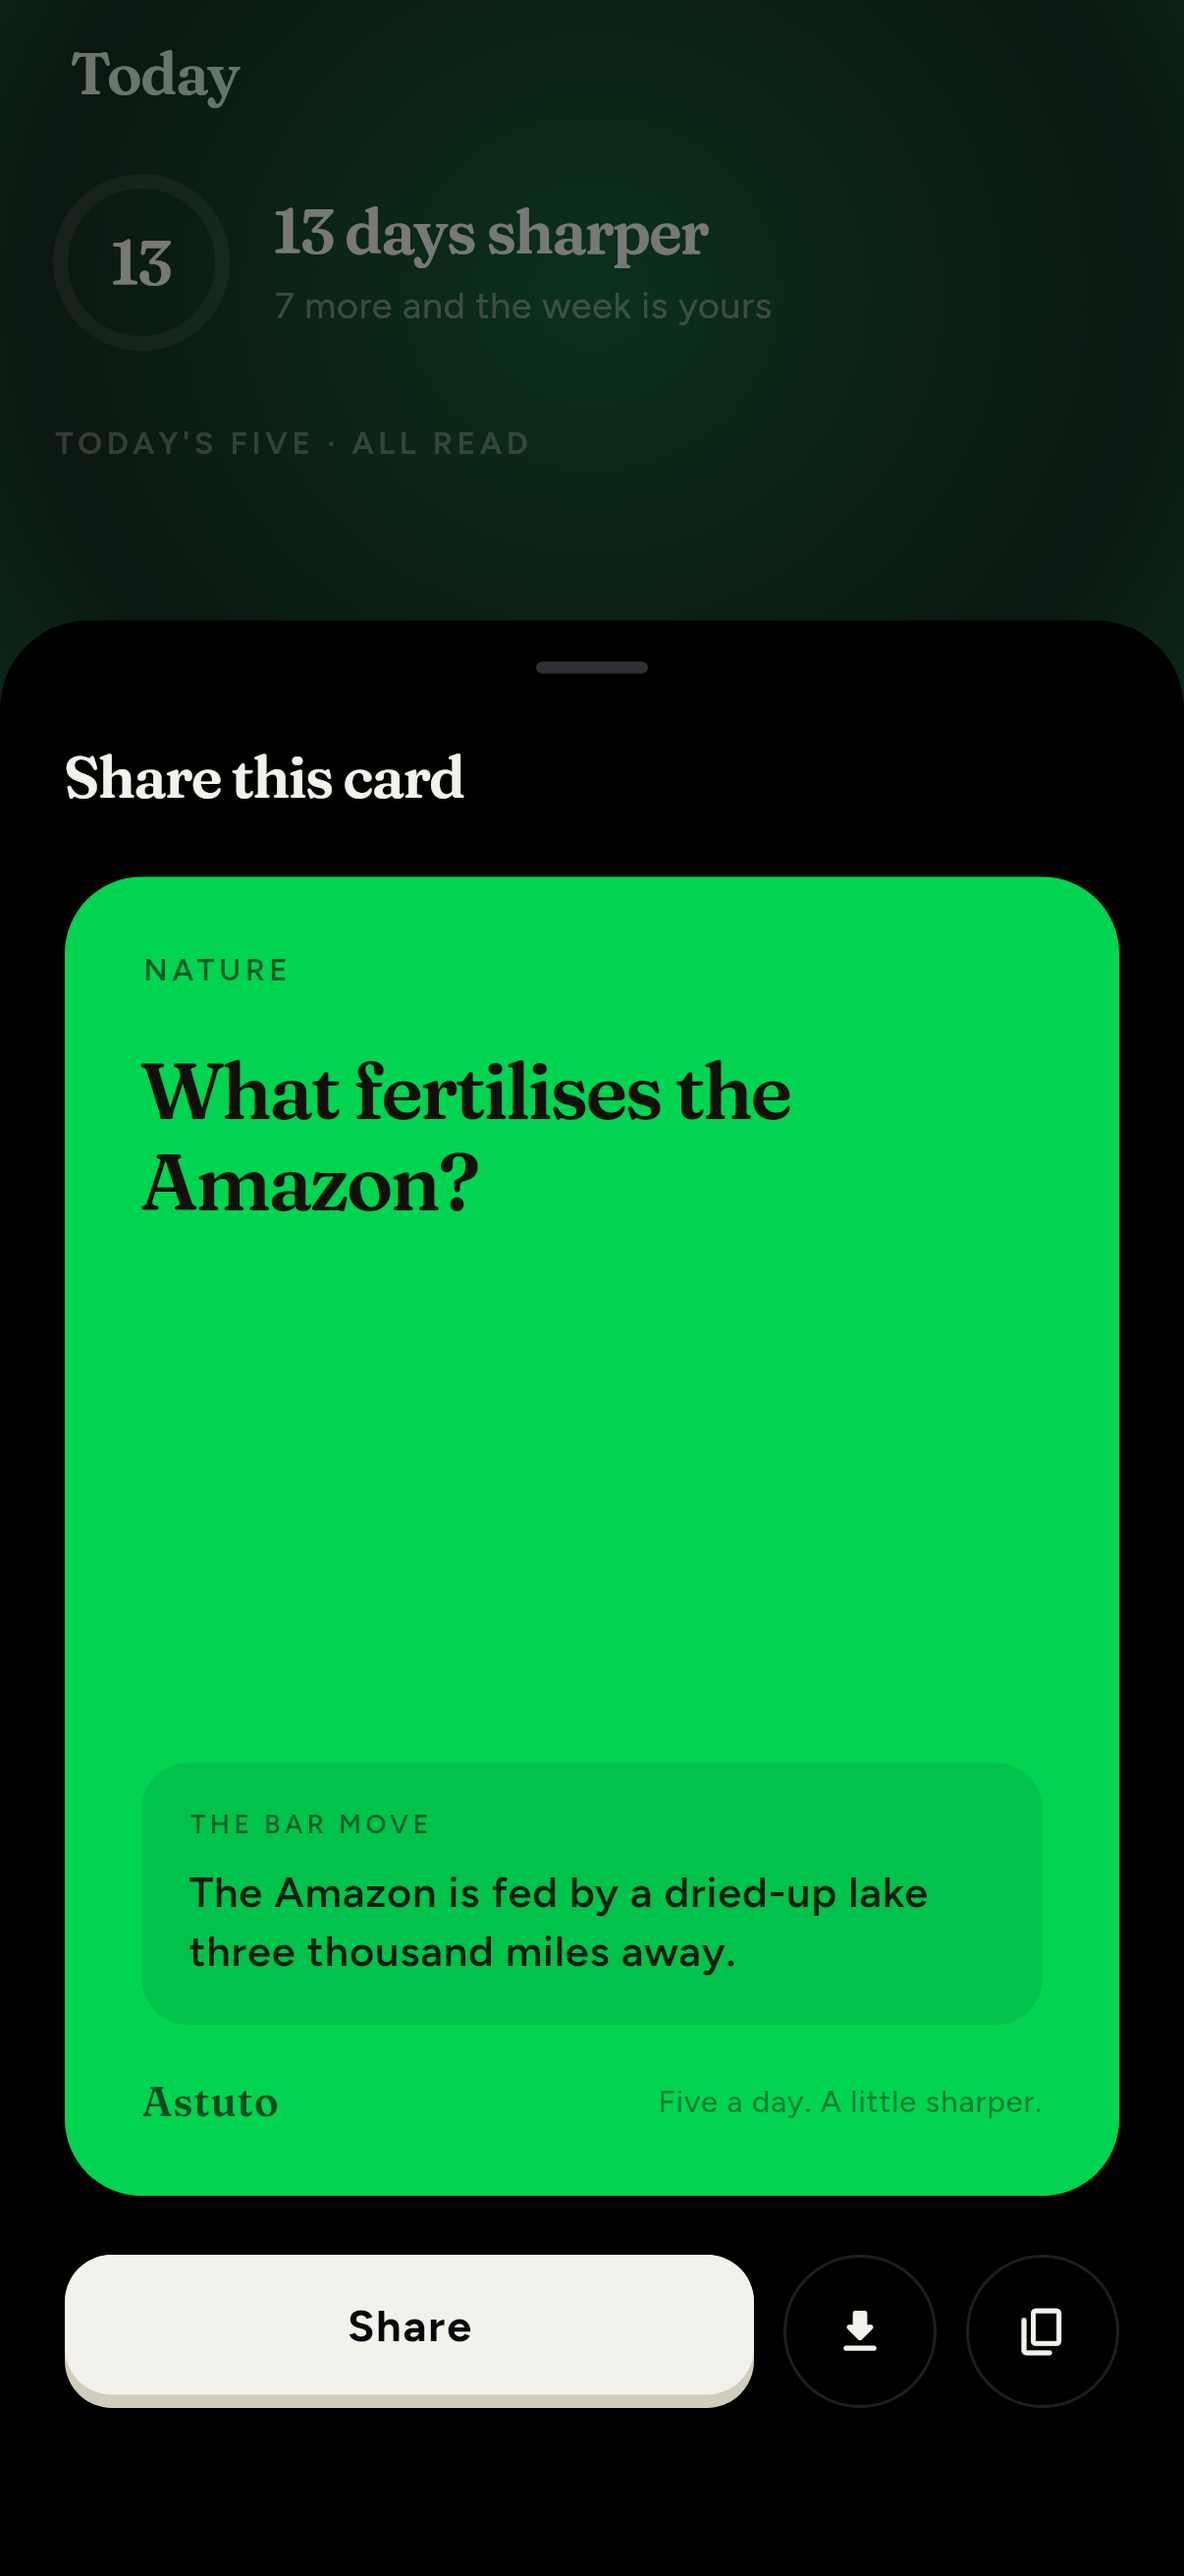
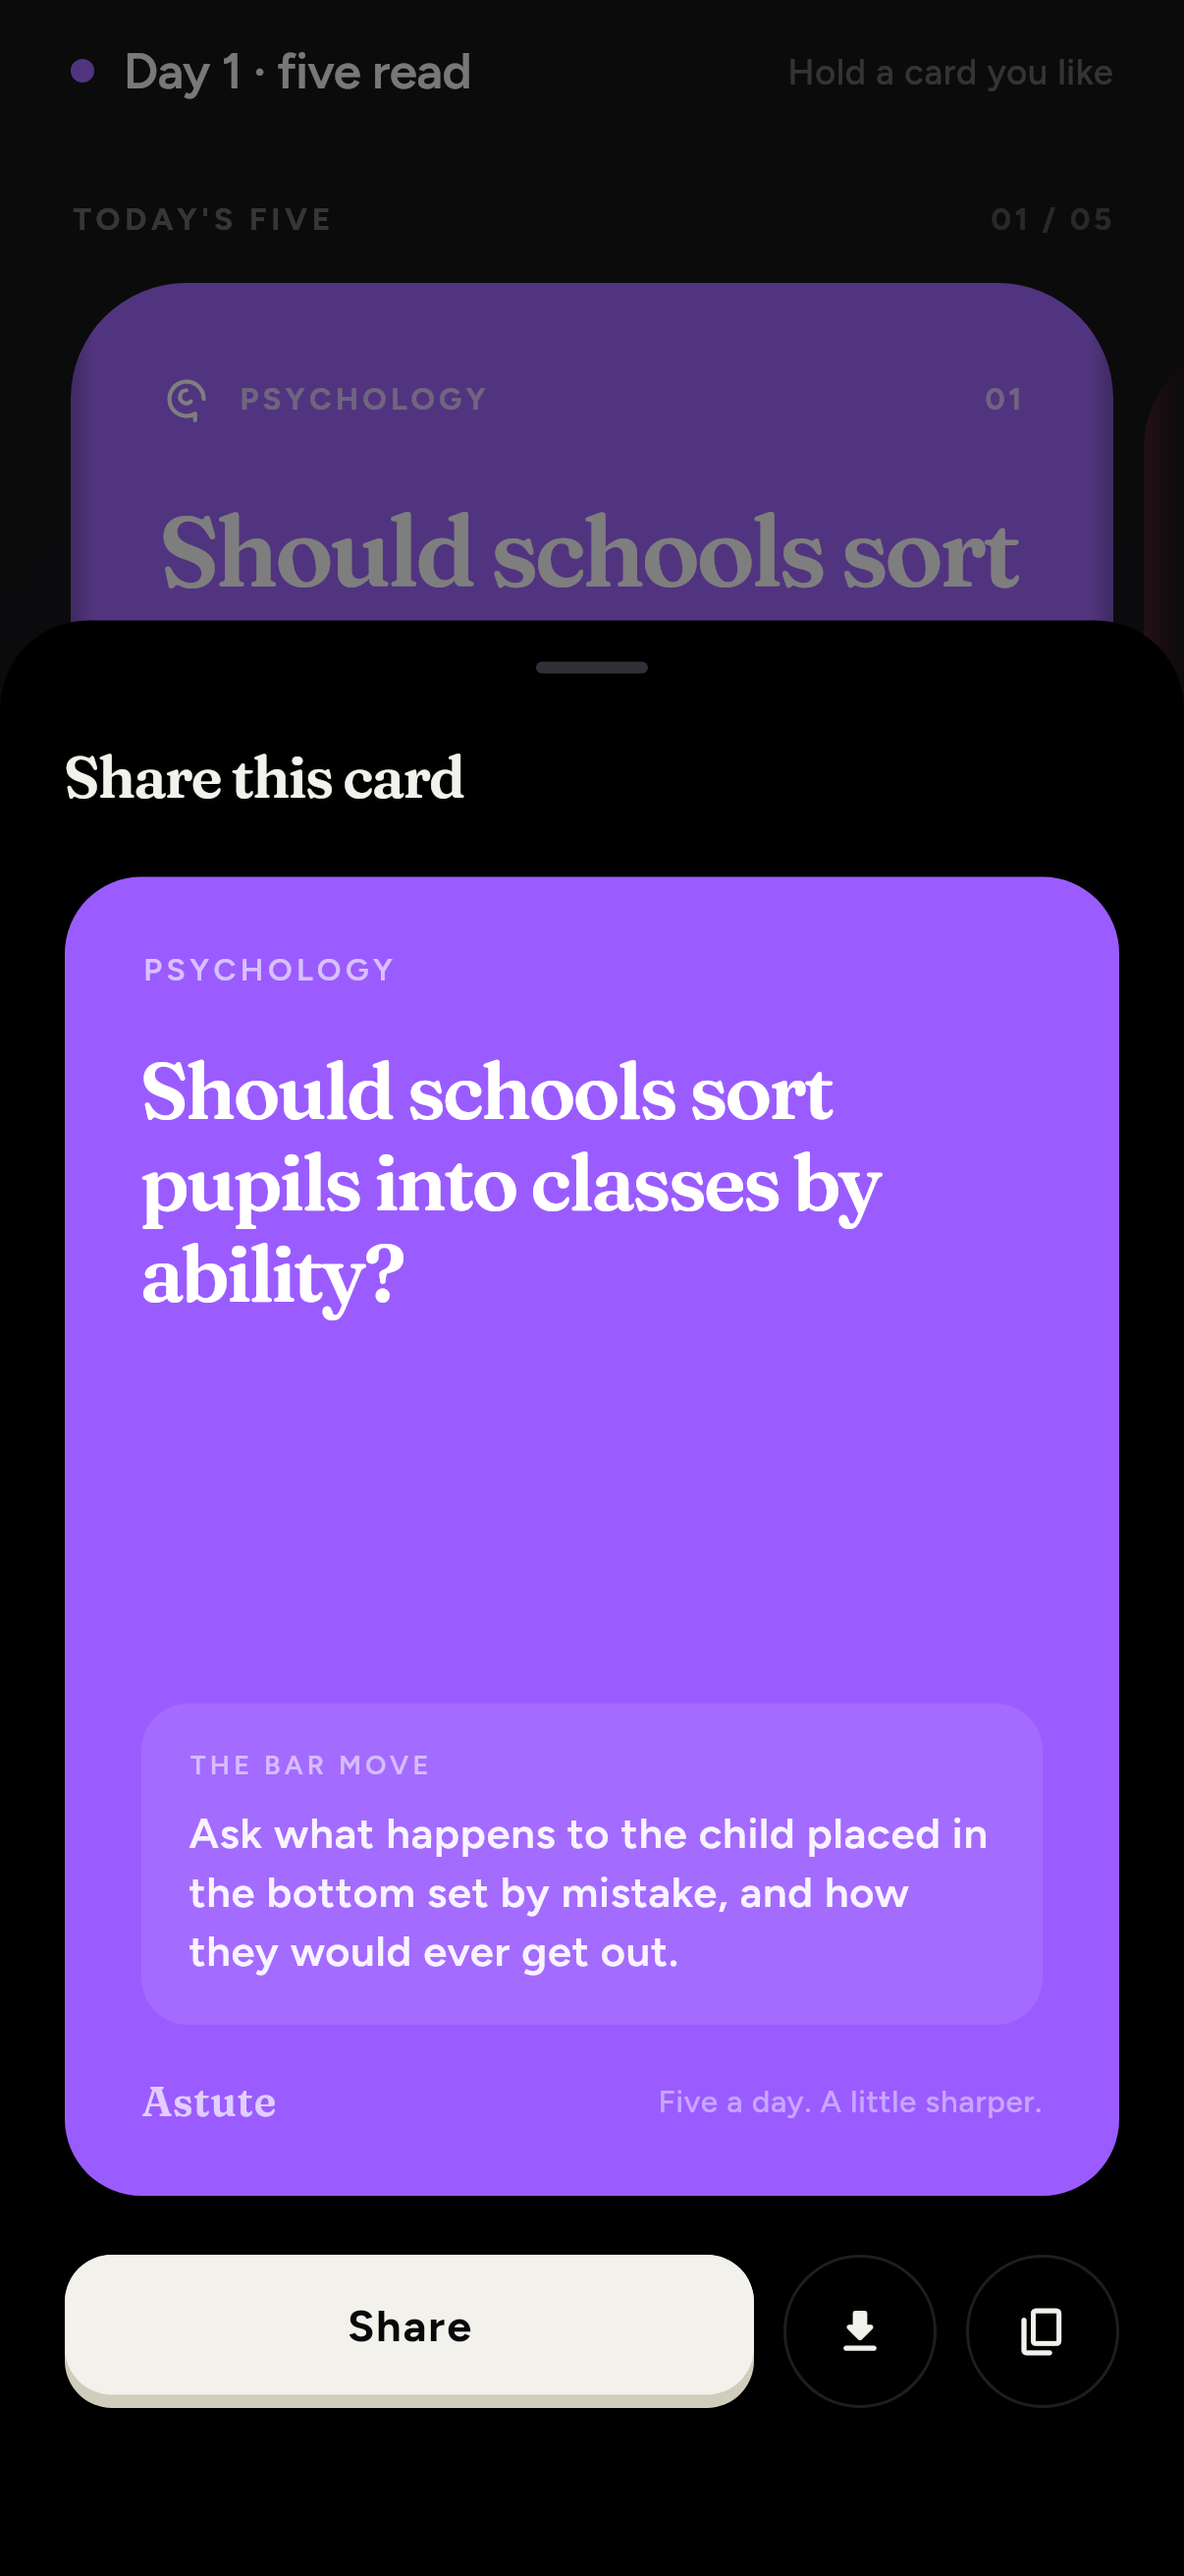
The app screenshots find the SDK the way the intro ones do
The harness had the Material icons font at /opt/flutter, the one path on
one machine; it now reads FLUTTER_ROOT first, as tool/intro_shots.dart
already did, so the same command renders both sets anywhere. The share
card's screenshot is regenerated with the question set to fit.

Claude-Session: https://claude.ai/code/session_018WEQYcXjm1L52zwKpmdTht

diff --git a/tool/app_shots.dart b/tool/app_shots.dart
@@ -20,10 +20,11 @@ import 'package:astuto/main.dart';
 import 'package:astuto/widgets/pill_card_stack.dart';
 
 Future<void> _loadFonts() async {
-  const fonts = {
+  final fonts = {
     'Fraunces': 'assets/fonts/Fraunces.ttf',
     'Figtree': 'assets/fonts/Figtree.ttf',
-    'MaterialIcons': '/opt/flutter/bin/cache/artifacts/material_fonts/MaterialIcons-Regular.otf',
+    'MaterialIcons':
+        '${Platform.environment['FLUTTER_ROOT'] ?? '/opt/flutter'}/bin/cache/artifacts/material_fonts/MaterialIcons-Regular.otf',
   };
   for (final entry in fonts.entries) {
     final loader = FontLoader(entry.key);
